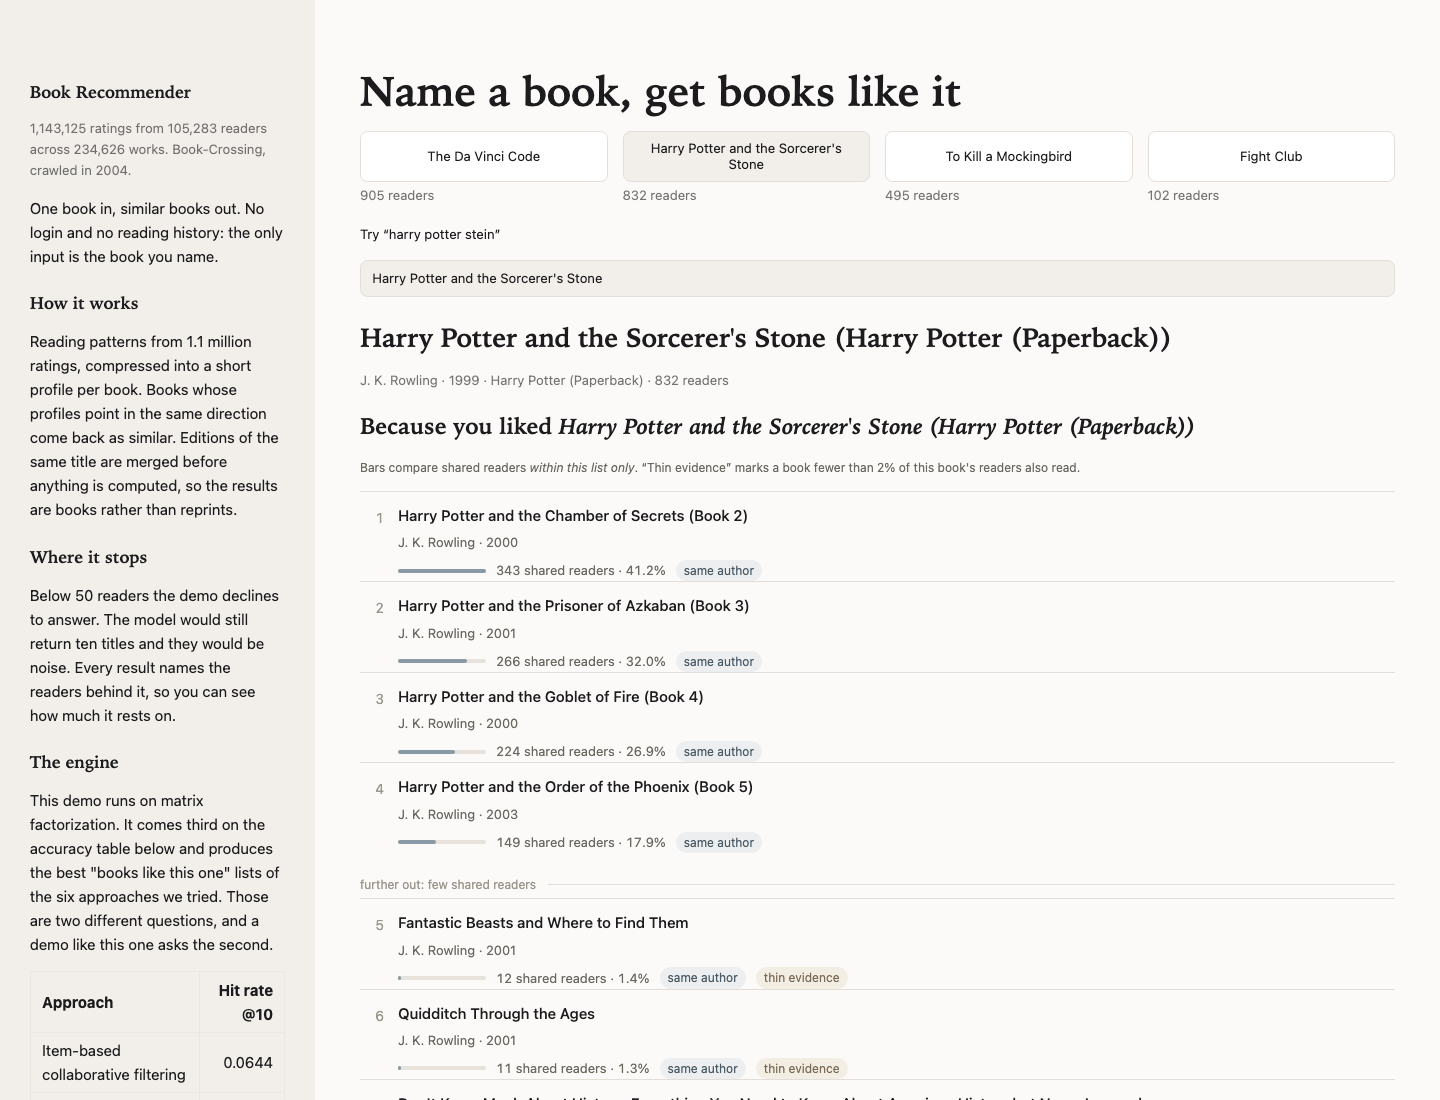
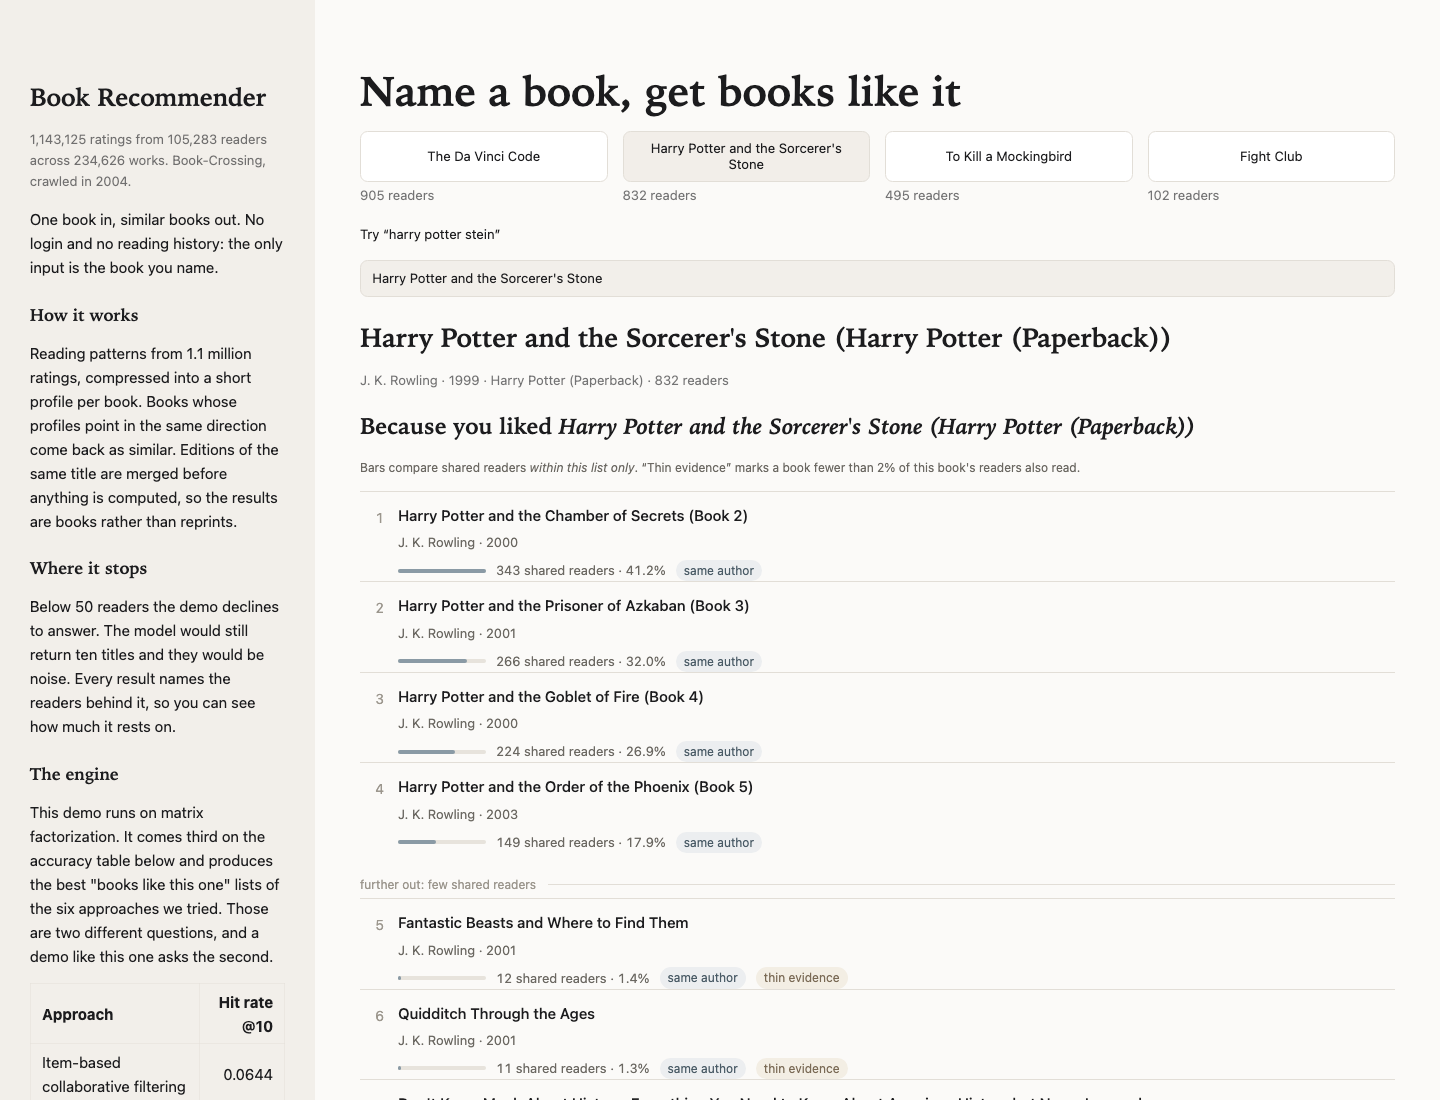
Retire a dead reason from the docstring, and close the entity path
**The docstring claimed something this project disproved.** It rejected an
engine switcher because "each would need its own similarity artefact, which
costs the cold start". M16 measured that false: with the anchor floor at 50
only ~2,500 works are reachable as anchors, so the artefact is a precomputed
top-N table of ~125,000 rows across five engines, not a second 156 MB factor
matrix — and cold start goes *down*, because a table lookup replaces the mmap.
It is also the Part 3 Gold-table pattern, built rather than drawn.

The file now says what actually holds the switcher back: a schedule gate. That
is a priority; the old sentence was a measurement, and the measurement went the
other way. A file's own documentation should not carry a reason its project has
refuted.

The anchor count is measured here rather than taken from the milestone note
(2,508 against its provisional 2,532), so the docstring rounds instead of
quoting a digit neither run has pinned.

**And the second review finding, which was mine.** The describe() entity fix in
M15 left similar() comparing an unescaped candidate author against the raw
anchor row, so same_author and shared_series could silently miss — M14.3's bug
by a different door. Both sides now come from describe(). Unreachable today,
since every work with an entity author sits below both floors, but a floor is a
decision and decisions move. Two regression tests.

Sidebar: "Book Recommender" is set as a name rather than as one more section
[…]

Changed region(s): [[0.0, 0.0618, 0.1875, 1.0]]

diff --git a/app/main.py b/app/main.py
@@ -7,14 +7,27 @@ Deliberately thin. Every rule that could be *wrong* lives in :mod:`recommender.d
 layout and copy. Run ``python scripts/build_app_assets.py`` once first — the app never fits
 a model, never reads ``data/`` and never touches the network.
 
-**One engine, on purpose.** The similar-items engine is ALS item factors over the
-work-keyed matrix, with the support floors from ledger L34 (candidates) and L65 (anchors).
-ALS places *third of six* on HitRate@10 in the published table (L55) and has the best
-item-to-item neighbourhoods in the project. That the offline metric and the product surface
-disagree is the finding, not an inconsistency — so the table where ALS loses is in the
-sidebar rather than hidden. A switcher across the other four models was scoped and dropped:
-each would need its own similarity artefact, which buys a dropdown and costs the cold start
-this app is built around.
+**One engine, for now.** The similar-items engine is ALS item factors over the work-keyed
+matrix, with the support floors from ledger L34 (candidates) and L65 (anchors). ALS places
+*third of six* on HitRate@10 in the published table (L55) and has the best item-to-item
+neighbourhoods in the project. That the offline metric and the product surface disagree is
+the finding, not an inconsistency — so the table where ALS loses is in the sidebar rather
+than hidden.
+
+**Why there is no engine switcher yet, corrected.** M13.2 dropped one on the grounds that
+each engine would need its own similarity artefact and would cost the cold start this app
+is built around. **M16 measured that false and this docstring carried the dead reason for
+two milestones.** With the anchor floor at 50 only ~2,500 works are reachable as anchors at
+all, so the artefact is not a second 156 MB factor matrix but a precomputed top-N table —
+about 125,000 rows across five engines, a few MB of parquet. Cold start goes *down*: a
+table lookup replaces a 156 MB memory map. It is also the Part 3 Gold-table serving
+pattern, built instead of drawn on a slide.
+
+What actually holds the switcher back is a **schedule gate, not a cost**: M16 runs only
+after the surface work is green and a first full write-up draft exists, because it changes a
+demo that has already been rehearsed. That is a different sentence from the one this file
+used to make, and the difference matters — the first is a priority, the second was a
+measurement, and the measurement went the other way.
 
 **Ledger codes appear in this file and never on the screen** (M15, pinned decision 1). They
 are precise to us and are internal jargon to a client, and jargon in a demo reads as
@@ -93,6 +106,12 @@ STYLE = """
     {margin-top: -0.85rem;}
 
   .legend {font-size: 12px; color: #6b6862; margin: 0.2rem 0 0.9rem 0;}
+
+  /* The sidebar's first heading is the only place the app is named, so it is set as a name
+     rather than as one more section label — larger than the "How it works" headings under
+     it, which keep their size. Reached through a keyed container: Streamlit wraps every
+     markdown block separately, so `h3:first-of-type` matches all four of them. */
+  .st-key-app-name h3 {font-size: 1.65rem; margin-bottom: 0.15rem;}
 
   /* One row of the result list. No card, no fill, no border — a hairline and the type
      hierarchy carry it. */
@@ -185,7 +204,8 @@ def sidebar(engine: DemoEngine) -> None:
         # "Book Recommender" rather than the pinned copy's "What this is" (the project owner,
         # 09.08.2026): the sidebar's first line is the only place the thing gets named, and
         # a section label is not a name.
-        st.markdown("### Book Recommender")
+        with st.container(key="app-name"):
+            st.markdown("### Book Recommender")
         # M15.6's provenance line, moved here from under the page title (review,09.08.).
         # Its rule is unchanged and is the reason it is a function rather than a string:
         # exactly one place in the app states the corpus size, and it is counted off the

diff --git a/src/recommender/demo.py b/src/recommender/demo.py
@@ -461,9 +461,15 @@ class DemoEngine:
         # The reason sentence names the anchor, and the canonical title keeps its edition
         # parenthetical -- "Harry Potter and the Sorcerer's Stone (Harry Potter (Paperback))"
         # reads badly ten times in a row. Display drops it; the work id is unchanged.
-        anchor_title = split_series(self.describe(isbn).title)[0]
+        # **Both sides of every comparison below come from `describe`**, which is what makes
+        # them comparable: it resolves the dataset's HTML entities, and reading the anchor
+        # straight off `assets.books` instead would compare an unescaped candidate author
+        # against a raw `Anne Rice &amp; co` — the M14.3 bug class returning by a different
+        # door. Unreachable today, because every work with an entity in its author string
+        # sits below both floors, but a floor is a decision and decisions move.
+        anchor_meta = self.describe(isbn)
+        anchor_title = split_series(anchor_meta.title)[0]
         anchor_readers = self._readers_of(anchor)
-        anchor_book = self.assets.books.loc[isbn] if isbn in self.assets.books.index else None
 
         seen = {isbn}
         out: list[Suggestion] = []
@@ -482,10 +488,8 @@ class DemoEngine:
                 score=float(scores[row]),
                 co_readers=int(np.intersect1d(anchor_readers, self._readers_of(row), assume_unique=True).size),
                 anchor_readers=int(anchor_readers.size),
-                same_author=anchor_book is not None and same_author(book.author, str(anchor_book["Book-Author"])),
-                shared_series=book.series
-                if anchor_book is not None and book.series and book.series == str(anchor_book["series"])
-                else "",
+                same_author=same_author(book.author, anchor_meta.author),
+                shared_series=book.series if book.series and book.series == anchor_meta.series else "",
             )
             out.append(
                 Suggestion(

diff --git a/tests/test_demo.py b/tests/test_demo.py
@@ -259,6 +259,26 @@ class TestSameAuthor:
         match for another empty author — it is two books with no author on record."""
         assert not same_author(left, right)
 
+    def test_an_html_entity_does_not_hide_the_same_person(self) -> None:
+        """The 2004 crawl stored titles and authors as HTML, so the catalogue holds strings
+        like ``Anne Rice &amp; co``. `describe` unescapes them; reading the *anchor* straight
+        off the metadata table instead would compare an unescaped candidate against a raw
+        anchor and silently lose the tag. That is M14.3's bug by a different door."""
+        books = BOOKS.copy()
+        books.loc[HOBBIT, "Book-Author"] = "Tolkien &amp; Sons"
+        books.loc[RING, "Book-Author"] = "Tolkien & Sons"
+        engine = DemoEngine(_assets(support=(50, 50, 50, 50, 50), books=books))
+        by_id = {s.isbn: s for s in engine.similar(HOBBIT, k=4, tau=0)}
+        assert by_id[RING].evidence.same_author is True
+
+    def test_an_html_entity_does_not_hide_a_shared_series(self) -> None:
+        books = BOOKS.copy()
+        books.loc[HOBBIT, "series"] = "Tales &amp; Legends"
+        books.loc[RING, "series"] = "Tales & Legends"
+        engine = DemoEngine(_assets(support=(50, 50, 50, 50, 50), books=books))
+        by_id = {s.isbn: s for s in engine.similar(HOBBIT, k=4, tau=0)}
+        assert by_id[RING].evidence.shared_series == "Tales & Legends"
+
     def test_the_engine_tags_a_mixed_case_edition(self) -> None:
         """The end-to-end regression: a work whose most-interacted edition shouts its
         author must still be tagged as the anchor's author."""
